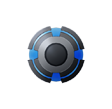
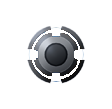
replace new pics and add itemcontroller.

Changed region(s): [[0.2411, 0.2477, 0.75, 0.7431]]

diff --git a/src/hero.js b/src/hero.js
@@ -11,7 +11,9 @@ var STATUS =  {IDLE: "idle", MOVE: "move", ROLL: "roll", SHOOT: "shoot", DEAD: "
 var Hero = cc.Node.extend({
     colortype: null,
     base: null,
+    base_light: null,
     tower: null,
+    tower_light: null,
     aimer: null,
     initPos: null,
     base_angel:0,
@@ -29,12 +31,16 @@ var Hero = cc.Node.extend({
 
         //add entity
         var baseFrameName = "";
-        var aimerFrameName = "";
+        var baselightFrameName = "";
         var towerFramName = "";
+        var towerlightFrameName = "";
+        var aimerFrameName = "";
         if(this.colortype == g_ColorType.blue)
         {
             baseFrameName = res.blue_base;
+            baselightFrameName = res.blue_baselight;
             towerFramName = res.blue_tower;
+            towerlightFrameName = res.blue_towerlight;
             aimerFrameName = res.blue_aimer;
             this.initPos = cc.p(200,cc.winSize.height/2);
             this.tower_angel = -90;
@@ -43,7 +49,9 @@ var Hero = cc.Node.extend({
         else if(this.colortype == g_ColorType.red)
         {
             baseFrameName = res.red_base;
+            baselightFrameName = res.red_baselight;
             towerFramName = res.red_tower;
+            towerlightFrameName = res.red_towerlight;
             aimerFrameName = res.red_aimer;
             this.initPos = cc.p(cc.winSize.width-200, cc.winSize.height/2);
             this.tower_angel = -135;
@@ -54,16 +62,23 @@ var Hero = cc.Node.extend({
         this.base  = new cc.Sprite(baseFrameName);
         this.addChild(this.base,1);
 
+        this.base_light = new cc.Sprite(baselightFrameName);
+        this.addChild(this.base_light,2)
+
         this.tower = new cc.Sprite(towerFramName);
-        this.addChild(this.tower,2);
+        this.addChild(this.tower,3);
+
+        this.tower_light = new cc.Sprite(towerlightFrameName);
+        this.addChild(this.tower_light,4);
 
         this.aimer = new cc.Sprite(aimerFrameName);
-        this.addChild(this.aimer,3);
+        this.addChild(this.aimer,5);
         this.aimer.setVisible(false);
         this.aimer.setScale(1.5);
 
         this.setPosition(this.initPos);
         this.tower.setRotation(this.tower_angel);
+        this.tower_light.setRotation(this.tower_angel);
         this.aimer.setRotation(this.base_angel);
     },
     setStatus: function(status){
@@ -94,6 +109,7 @@ var Hero = cc.Node.extend({
             new_angel = (this.tower_angel - CONST_INCREASE_BASE_ANGEL)%360;
         this.tower_angel = new_angel;
         this.tower.setRotation(new_angel);
+        this.tower_light.setRotation(new_angel);
     },
     updateBaseRoll: function(dt){
         var new_angel;

diff --git a/src/item.js b/src/item.js
@@ -1,0 +1,91 @@
+/**
+ * Created by Jacky on 14/12/7.
+ */
+
+var STYLE = {rush:0,disapper:1,sbullet:2,hpplus:3,cdhalf:4,speed2:5};
+
+var CONST_LIFE = 8;
+var CONST_BLINK_TIME = 2;
+
+var Item = cc.Sprite.extend({
+    style: null,
+    curlifetime: 0,
+    isBlinking: false,
+    ctor: function(style) {
+        var filename;
+        switch(style)
+        {
+            case STYLE.rush:
+                filename = res.item_rush;
+                break;
+            case STYLE.disapper:
+                filename = res.item_disappear;
+                break;
+            case STYLE.sbullet:
+                filename = res.item_sbullet;
+                break;
+            case STYLE.hpplus:
+                filename = res.item_hpplus;
+                break;
+            case STYLE.cdhalf:
+                filename = res.item_cdhalf;
+                break;
+            case STYLE.speed2:
+                filename = res.item_speed2;
+                break;
+            default :
+                filename = "";
+        }
+        this._super(filename);
+        this.style = style;
+
+        this.attr({
+            x: cc.winSize.width * Math.random(),
+            y: cc.winSize.height * Math.random()
+        });
+
+        g_ItemPool.push(this);
+
+        this.scheduleUpdate();
+    },
+    update: function(dt)
+    {
+        this.curlifetime += dt;
+        if(this.curlifetime > CONST_LIFE - CONST_BLINK_TIME && !this.isBlinking)
+        {
+            this.runAction(cc.blink(CONST_BLINK_TIME,5));
+            this.isBlinking = true;
+        }
+        else if(this.curlifetime > CONST_LIFE)
+        {
+            g_ItemPool.splice(g_ItemPool.indexOf(this),1);
+            this.removeFromParent();
+        }
+    },
+    setCollision: function(who)
+    {
+        this.unscheduleUpdate();
+        g_ItemPool.splice(g_ItemPool.indexOf(this),1);
+        this.removeFromParent();
+
+        //do real function
+        switch(this.style)
+        {
+            case STYLE.rush:
+                break;
+            case STYLE.disapper:
+                break;
+            case STYLE.sbullet:
+                break;
+            case STYLE.hpplus:
+                break;
+            case STYLE.cdhalf:
+                break;
+            case STYLE.speed2:
+                break;
+            default :
+                ;
+        }
+    }
+
+});

diff --git a/src/gameController.js b/src/gameController.js
@@ -1,3 +1,5 @@
+var CONST_HERO_ITEM_MINDISTANCE = 50;
+
 GameController = function(blue, red){
     //if(blue == undefined || red == undefined) return;
 
@@ -6,6 +8,8 @@ GameController = function(blue, red){
     this.timetoexcuteAI = 0;
     this.blue_cur_pos;
     this.update = function(dt) {//TODO:要加入dt
+
+        //AI
         if(g_IsAIEnable)
         {
             this.timetoexcuteAI -= dt;
@@ -26,8 +30,10 @@ GameController = function(blue, red){
                 }
             }
         }
+
         this.borderCross(dt);
         this.checkHeroCollision(dt);
+        this.checkItemCollision(dt);
     };
     this.borderCross = function(dt)
     {
@@ -75,6 +81,26 @@ GameController = function(blue, red){
             this.red.setPosition(cc.pRotateByAngle(cc.pAdd(cc.p(-distance2,0),red_Pos),red_Pos,angel));
         }
     };
+    this.checkItemCollision = function(dt)
+    {
+        //blue
+        for(var index in g_ItemPool){
+            if(cc.pDistance(this.blue.getPosition(),g_ItemPool[index].getPosition()) < CONST_HERO_ITEM_MINDISTANCE){
+                g_ItemPool[index].setCollision(this.blue);
+                return;
+            }
+        }
+
+        //red
+        for(var index in g_ItemPool){
+            if(cc.pDistance(this.red.getPosition(),g_ItemPool[index].getPosition()) < CONST_HERO_ITEM_MINDISTANCE){
+                g_ItemPool[index].setCollision(this.red);
+                return;
+            }
+        }
+    };
+
+    //AI
     this.setAIEnable = function(isAIEnable)
     {
         g_IsAIEnable = isAIEnable;

diff --git a/src/resource.js b/src/resource.js
@@ -1,18 +1,26 @@
 var res = {
     HelloWorld_png : "res/HelloWorld.png",
-    CloseNormal_png : "res/CloseNormal.png",
-    CloseSelected_png : "res/CloseSelected.png",
     Red: "res/red.png",
     Blue: "res/blue.png",
     bubble_png : "res/bubble.png",
     blue_aimer : "res/blue_aimer.png",
     blue_base : "res/blue_base.png",
+    blue_baselight: "res/blue_baselight.png",
     blue_tower : "res/blue_tower.png",
+    blue_towerlight : "res/blue_towerlight.png",
     red_aimer : "res/red_aimer.png",
     red_base : "res/red_base.png",
+    red_baselight: "res/red_baselight.png",
     red_tower : "res/red_tower.png",
+    red_towerlight: "res/red_towerlight.png",
     game_bk : "res/game_bk.jpg",
-    game_border : "res/game_border.png"
+    game_border : "res/game_border.png",
+    item_rush: "res/itemRush.png",
+    item_disappear: "res/itemDisappear.png",
+    item_sbullet: "res/itemSbullet.png",
+    item_hpplus: "res/itemHpPlus.png",
+    item_cdhalf: "res/itemCDHalf.png",
+    item_speed2: "res/itemSpeed2.png",
 };
 
 var g_resources = [];

diff --git a/src/itemController.js b/src/itemController.js
@@ -1,3 +1,24 @@
 /**
  * Created by Jacky on 14/12/7.
  */
+
+var CONST_ITEM_TIME = 10;
+var CONST_ITEM_RANDOM_FACTOR = 0.5;
+
+ItemController = function(){
+
+    this.scheduleTime = 5;
+    this.update = function(dt) {
+        this.scheduleTime -= dt;
+        if(this.scheduleTime <= 0){
+            //show item
+            var random_item_index = Math.ceil(Math.random()*5);
+            var item = new Item(random_item_index);
+            currentLayer.addChild(item,100);
+            this.scheduleTime = CONST_ITEM_TIME*(1+CONST_ITEM_RANDOM_FACTOR*Math.random());
+            cc.log(this.scheduleTime);
+        }
+    };
+
+
+};

diff --git a/src/gameScene.js b/src/gameScene.js
@@ -43,6 +43,9 @@ var GameSceneLayer = cc.Layer.extend({
         //add GameController
         var gc = new GameController(this.blue,this.red);
 
+        //add ItemController
+        var ic = new ItemController();
+
         //enable AI?
         //gc.setAIEnable(true);
 
@@ -52,6 +55,7 @@ var GameSceneLayer = cc.Layer.extend({
             this.red.update(dt);
             bulletController.attacks(dt);
             gc.update(dt);
+            ic.update(dt);
         },0);
 
         this.initKeyBoardControl();

diff --git a/src/global.js b/src/global.js
@@ -6,6 +6,10 @@ var g_ColorType = {
     blue: "blue"
 };
 
+//Item
+var g_ItemPool = [];
+
+//AI
 var g_IsAIEnable = false;
 
 var g_AIConfig={
